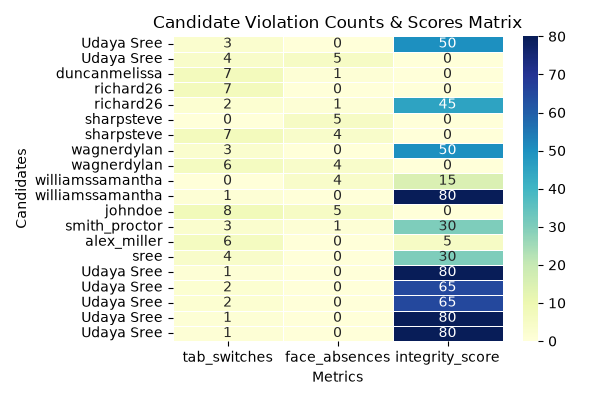
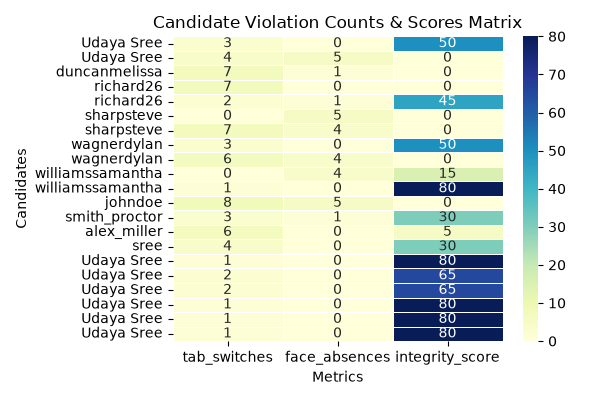
Project details

Changed region(s): [[0.06, 0.09, 0.84, 0.87]]

diff --git a/Project Documentation/Project_Description.md b/Project Documentation/Project_Description.md
@@ -1,56 +1,60 @@
-# PROJECT DOCUMENTATION
+Online Exam Monitoring and Integrity Analytics Platform
+1. Introduction & Executive Summary
+The Online Exam Monitoring and Integrity Analytics Platform (ExamGuard) is an advanced, AI-powered virtual proctoring solution engineered to maintain absolute academic fairness during remote assessments. Developed using Python, Flask, OpenCV, and SQLite, the application acts as an intelligent virtual supervisor capable of autonomously tracking candidates, logging procedural violations, and delivering deep analytical insights to examiners.
+2. Problem Statement & Objectives
+Problem Statement
+Conducting remote examinations securely without physical invigilation creates severe vulnerabilities, such as:
+Identity impersonation and proxy writing.
+Unauthorized resource browsing, window switching, and tab-navigation.
+High oversight overhead and a lack of real-time alert systems for examiners to audit candidate behavior efficiently.
+Primary Objectives
+Automated Supervision: Utilize computer vision to continuously verify candidate presence and detect visual anomalies.
+Violation Tracking: Seamlessly record procedural infractions like browser focus loss, minimization, and tab switches.
+Analytics & Scoring: Compute real-time trust scores and generate comprehensive graphical data summaries to streamline administrative audits.
+3. System Architecture & Technology Stack
+The platform is designed around a modular web application architecture utilizing industry-standard technologies:
+Backend Framework (Python & Flask): Manages HTTP routing, server-side business logic, and secure user session management.
+Computer Vision & AI (OpenCV): Leverages Haar Cascade classifiers to execute real-time frame processing and facial feature tracking via webcam inputs.
+Data Management (SQLite): Acts as a lightweight relational database ensuring secure, persistent storage of candidate profiles, chronological event logs, and session scores.
+Analytics & Machine Learning (Matplotlib & Scikit-learn): Generates graphical performance trends, evaluation reports, and handles automated anomaly pattern processing.
+Data Simulation Scripts (synthetic_data_generator.py): Utilized for stress-testing system telemetry and scaling data pipelines.
+4. System Workflow & Data Flow Diagram
+The operational workflow of the ExamGuard platform follows a structured lifecycle from candidate authentication to post-exam administrative auditing:
+[ Candidate Browser / Webcam ] 
+           │
+           ▼  (Webcam Stream & Tab Events)
+[ Flask Backend Server (`app.py`) ] 
+           ├──► [ OpenCV Computer Vision Engine ] ──► (Face Tracking & Anomalies)
+           ├──► [ Event Logger & Violation Tracker ] ──► (Tab-Switch & Focus Loss)
+           └──► [ SQLite Database (`exam_monitor.db`) ] ──► (Session & Logs Storage)
+                        │
+                        ▼  (Data Processing & Metrics)
+[ Matplotlib Analytics Module ] ──► [ Admin Dashboard Reports (`admin.html`) ]
+Workflow Breakdown
+Authentication & Session Initiation: Candidates log into the platform (login.html), where the system initializes an active session tracked via SQLite (exam_monitor.db).
+Real-time Proctoring Loop: During the exam (exam.html), the client-side interface streams webcam feeds to the backend, where OpenCV processes frames to check for valid facial presence.
+Violation Event Logging: If a candidate switches browser tabs or loses focus, event loggers instantly capture timestamps and log the infraction type.
+Post-Exam Analytics Generation: Upon exam completion, the analytics module aggregates penalties to calculate final integrity scores, rendering visual performance charts via Matplotlib for review on the admin panel (admin.html).
+5. Core Functional Modules
+Authentication & Authorization Module: Provides secure login and registration portals segregated for students and administrative examiners.
+Virtual Proctoring & Vision Engine (ai_agent.py & analytics.py): Continuously tracks webcam streams during exams, actively flagging instances where a candidate's face is missing or multiple individuals are detected.
+Violation & Tab-Switch Logger: Monitors browser-level focus shifts, automatically recording precise timestamps and infraction categories when a candidate navigates away.
+Integrity Scoring Engine: Computes a dynamic trust index by aggregating weighted penalties derived from visual anomalies and browser violations.
+Administrative Dashboard & Analytics (dashboard.py): Empowers examiners with graphical summaries, individual student audit trails, and data visualizations rendered through Matplotlib plots.
+Data Science Analytics & Heatmaps
+Integrity Score Distribution
 
-## 1. Introduction & Executive Summary
+ 
 
-The **Online Exam Monitoring and Integrity Analytics Platform (ExamGuard)** is an advanced, AI-powered virtual proctoring solution designed to uphold academic honesty and integrity during remote examinations. Traditional remote assessments often suffer from unmonitored malpractices, high administrative overhead, and a lack of reliable behavioral tracking. ExamGuard resolves these challenges by integrating **real-time computer vision algorithms**, automated event logging, and robust analytics dashboards into a unified web application.
+ 
+Event Frequency Correlation Heatmap
+ 
 
----
-
-## 2. Problem Statement & Objectives
-
-### Problem Statement
-Conducting remote exams securely without physical invigilation leads to critical vulnerabilities, such as:
-- Identity impersonation and proxy writing.
-- Unauthorized resource browsing and tab-switching.
-- Lack of real-time alert mechanisms for examiners to intervene during suspicious behavior.
-
-### Primary Objectives
-- **Automated Supervision**: Leverage computer vision to continuously track candidate face presence and detect visual anomalies.
-- **Violation Tracking**: Log procedural infractions like browser focus loss, window minimization, and tab switches.
-- **Analytics & Scoring**: Generate real-time integrity trust scores and visual data summaries to streamline administrative audits.
-
----
-
-## 3. System Architecture & Technology Stack
-
-The platform follows a modular web application architecture built using industry-standard tools:
-
-- **Backend Framework (Python & Flask)**: Handles HTTP routing, server-side business logic, and secure user session management.
-- **Computer Vision & AI (OpenCV)**: Utilizes Haar Cascade classifiers to execute real-time frame processing and facial feature detection via webcam feeds.
-- **Data Management (SQLite)**: Acts as a lightweight relational database ensuring secure storage of candidate profiles, chronological event logs, and session integrity scores.
-- **Analytics & Machine Learning (Matplotlib & Scikit-learn)**: Generates graphical performance trends, evaluation reports, and handles automated anomaly pattern processing.
-- **Data Simulation Scripts (`synthetic_data_generator.py`)**: Used for stress-testing system telemetry and scaling data pipelines.
-
----
-
-## 4. Core Functional Modules
-
-- **Authentication & Authorization Module**: Provides secure login and registration portals segregated for students and administrative examiners.
-- **Virtual Proctoring & Vision Engine**: Continuously tracks webcam streams during exams, actively flagging instances where a candidate's face is missing or multiple individuals are detected.
-- **Violation & Tab-Switch Logger**: Monitors browser-level focus shifts, automatically recording precise timestamps and infraction categories when a candidate navigates away.
-- **Integrity Scoring Engine**: Computes a dynamic trust index by aggregating weighted penalties derived from visual anomalies and browser violations.
-- **Administrative Dashboard & Analytics**: Empowers examiners with graphical summaries, individual student audit trails, and data visualizations rendered through Matplotlib.
-
----
-
-## 5. Software Testing & Quality Assurance
-
+6. Software Testing & Quality Assurance
 To ensure absolute system stability, the project is backed by structured quality assurance artifacts located within the documentation directory:
-- **Unit Testing (`Unit_Test_Plan_v0.1.xlsx`)**: Outlines test cases, functional inputs, and expected outcomes to verify core module reliability.
-- **Defect Tracking (`Defect_Tracker_Template_v0.1.xlsx`):** Records software bugs, severity ratings, reproduction steps, and resolution statuses identified during testing phases.
-
----
-
-## 6. Conclusion
-
+Unit Testing (Unit_Test_Plan_v0.1.xlsx): Outlines test cases, functional inputs, and expected outcomes to verify core module reliability.
+Defect Tracking (Defect_Tracker_Template_v0.1.xlsx): Records software bugs, severity ratings, reproduction steps, and resolution statuses identified during testing phases.
+Agile Project Management (`Agile_Template_v0.1 (1).xlsx`):  Tracks sprint cycles, user stories, task backlogs, and milestone progress to ensure systematic and iterative project execution.
+7. Conclusion
 ExamGuard successfully bridges the gap between remote learning flexibility and rigorous examination security. By automating proctoring workflows through computer vision and structured logging, the platform ensures a fair, scalable, and transparent evaluation environment.
+
